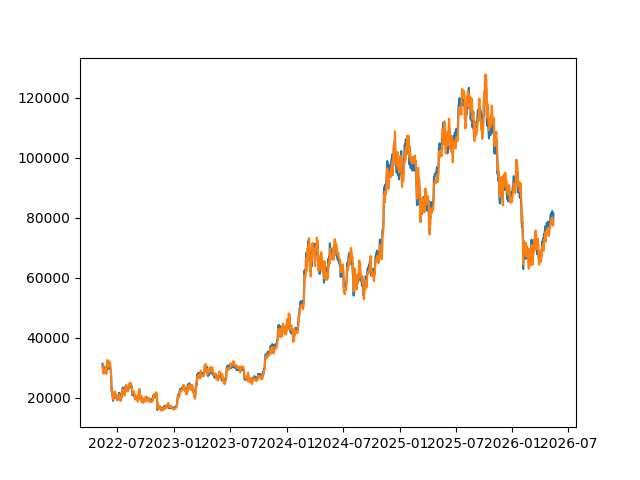
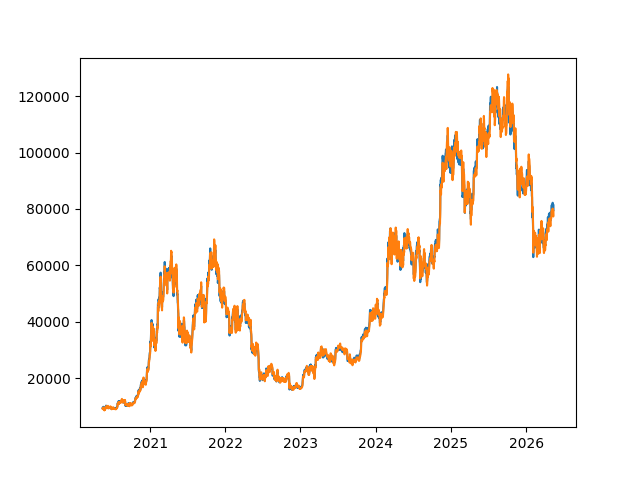
CatBoost 1.1

diff --git a/MLPipeline/app/main.py b/MLPipeline/app/main.py
@@ -40,14 +40,14 @@ engine = create_engine(DATABASE_URL)
 
 def main():
 
-	dataFrame = dataFrameDownloader(symbol='BTC', nameExchange='binance', amountDays=4*365, timeFrame='1d')
+	dataFrame = dataFrameDownloader(symbol='BTC', nameExchange='binance', amountDays=6*365, timeFrame='1d')
 
 	windowFeatures0 = 5
 	windowFeatures1 = 10
 	windowFeatures2 = 15
 
 	centreMoving = 20
-	quantile = 0.75
+	quantile = 0.90
 
 	dataFrame['features0'] = (dataFrame['close'] - dataFrame['close'].shift(windowFeatures0))/dataFrame['close'].shift(windowFeatures0)
 	dataFrame['features1'] = (dataFrame['close'] - dataFrame['close'].shift(windowFeatures1))/dataFrame['close'].shift(windowFeatures1)